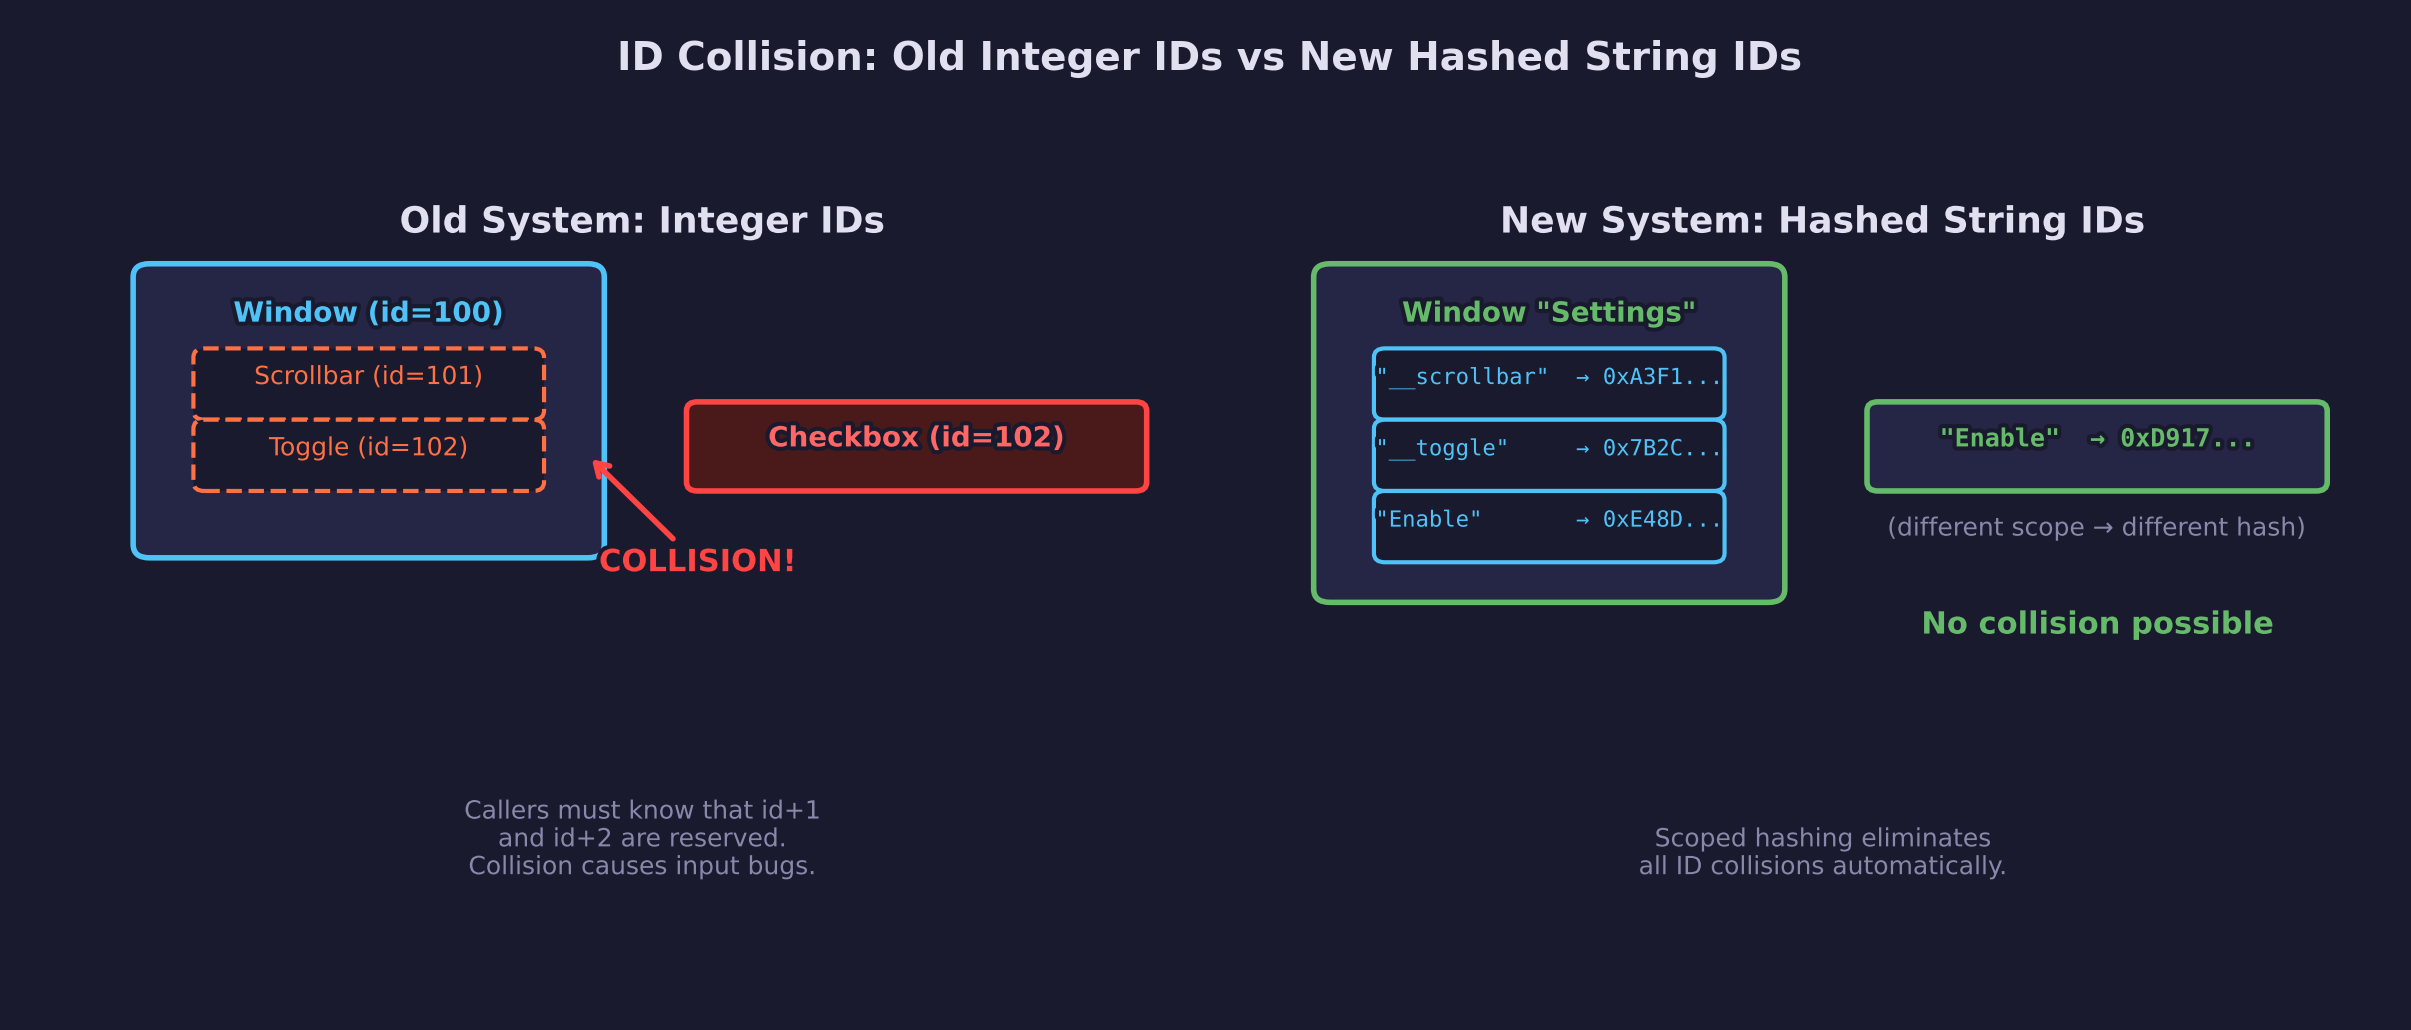
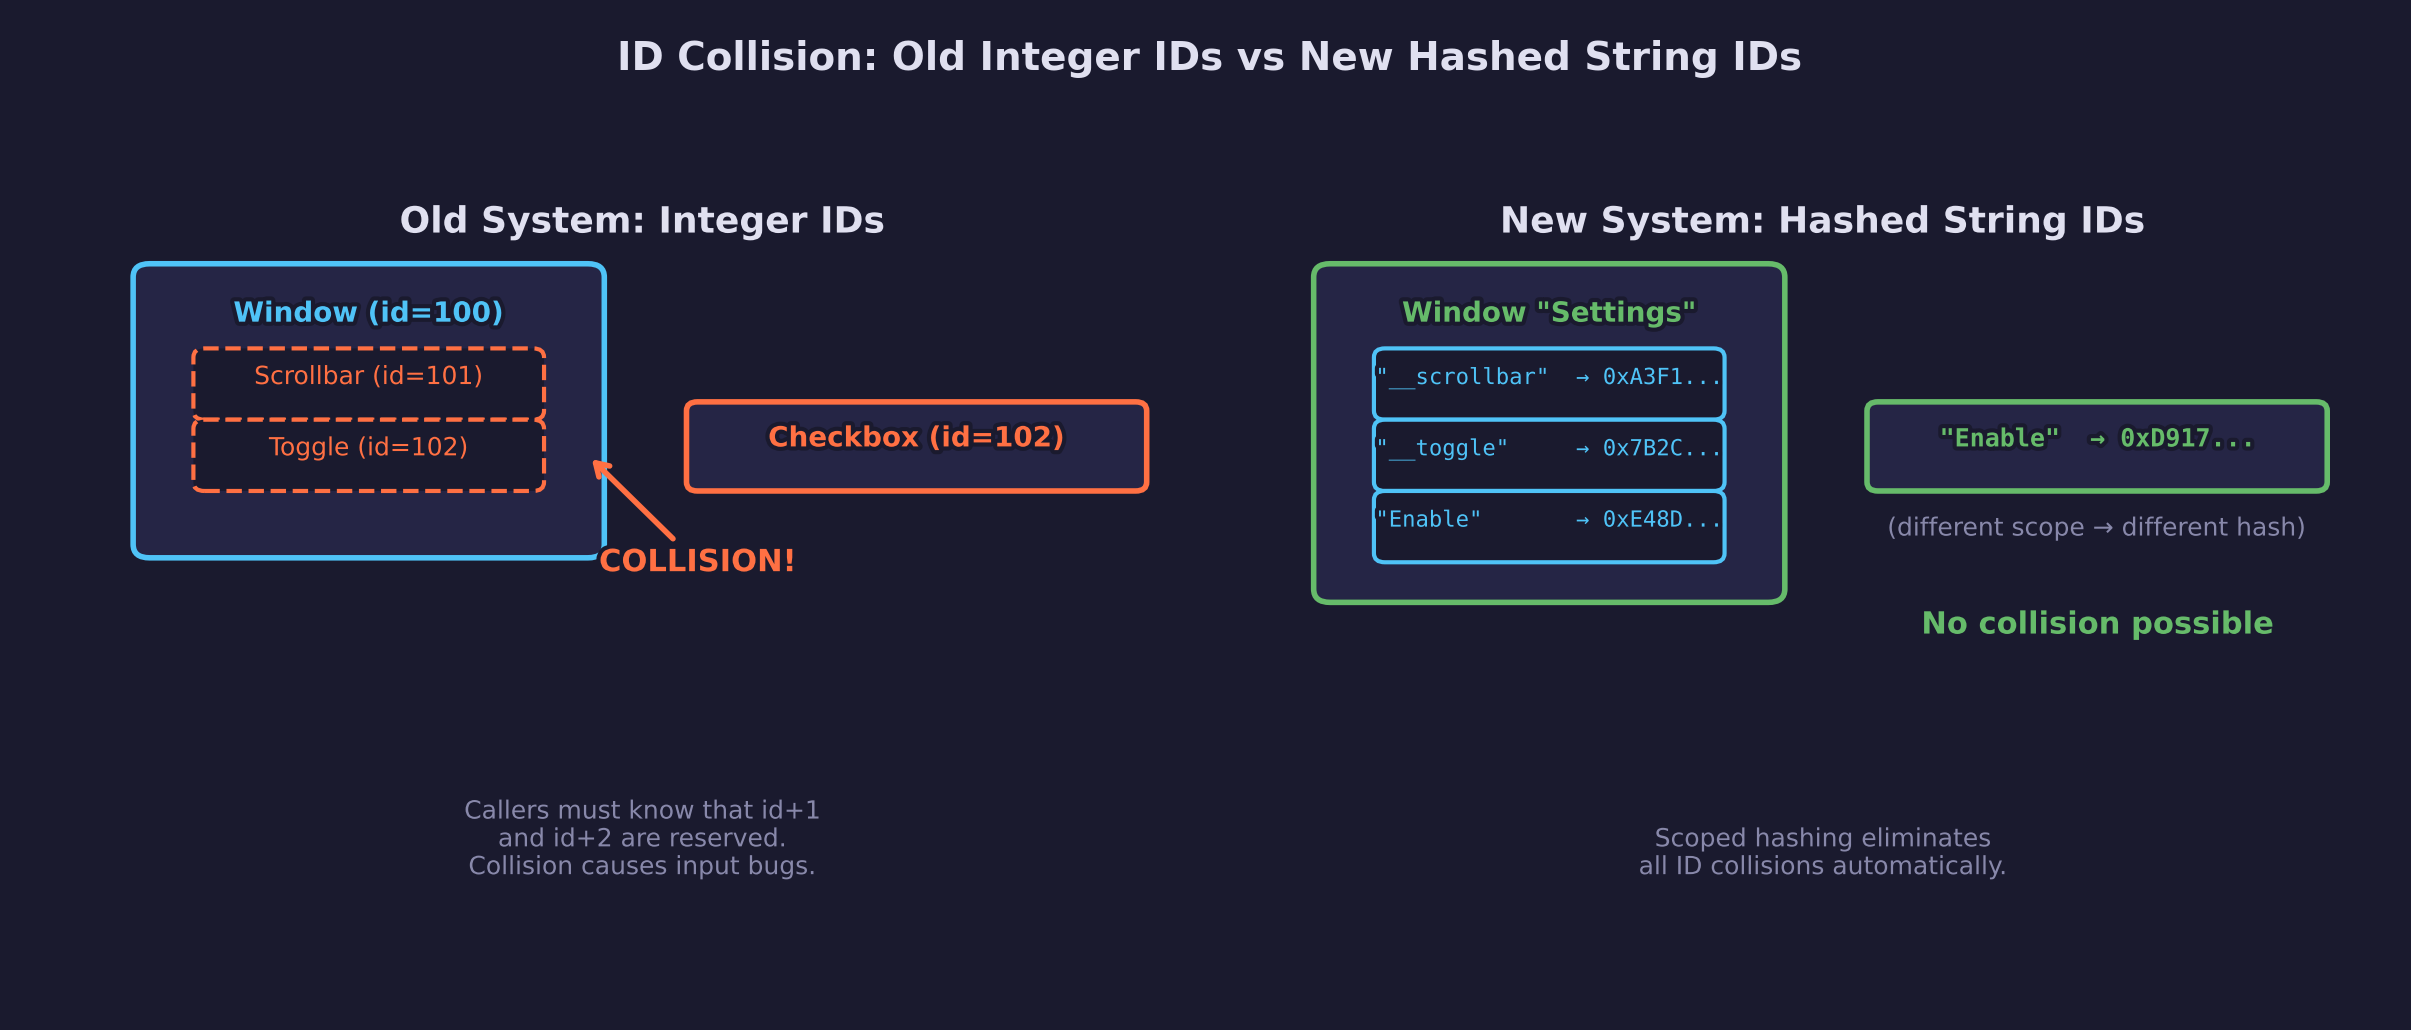
Fix hardcoded colors in id_collision diagram to use STYLE dictionary
Replace 5 hardcoded hex color values (#4a1a1a, #ff4444, #ff6666) with
STYLE["surface"] and STYLE["accent2"] to follow the create-diagram
skill guidelines. Regenerate the affected PNG.

Changed region(s): [[0.2489, 0.3728, 0.4977, 0.4971], [0.2489, 0.5282, 0.3422, 0.5592]]

diff --git a/scripts/forge_diagrams/ui_diagrams.py b/scripts/forge_diagrams/ui_diagrams.py
@@ -8385,13 +8385,13 @@ def diagram_id_collision():
     collision_rect = mpatches.FancyBboxPatch(
         (5.5, 5.2), 4.0, 0.8,
         boxstyle="round,pad=0.1",
-        facecolor="#4a1a1a", edgecolor="#ff4444",
+        facecolor=STYLE["surface"], edgecolor=STYLE["accent2"],
         linewidth=2,
     )
     ax1.add_patch(collision_rect)
     ax1.text(
         7.5, 5.6, 'Checkbox (id=102)',
-        color="#ff6666", fontsize=10, fontweight="bold",
+        color=STYLE["accent2"], fontsize=10, fontweight="bold",
         ha="center", path_effects=stroke,
     )
 
@@ -8399,11 +8399,11 @@ def diagram_id_collision():
     ax1.annotate(
         "COLLISION!",
         xy=(4.5, 5.5), xytext=(5.5, 4.2),
-        color="#ff4444", fontsize=11, fontweight="bold",
+        color=STYLE["accent2"], fontsize=11, fontweight="bold",
         ha="center",
         arrowprops={
             "arrowstyle": "->,head_width=0.25",
-            "color": "#ff4444", "lw": 2,
+            "color": STYLE["accent2"], "lw": 2,
         },
         path_effects=stroke,
     )
